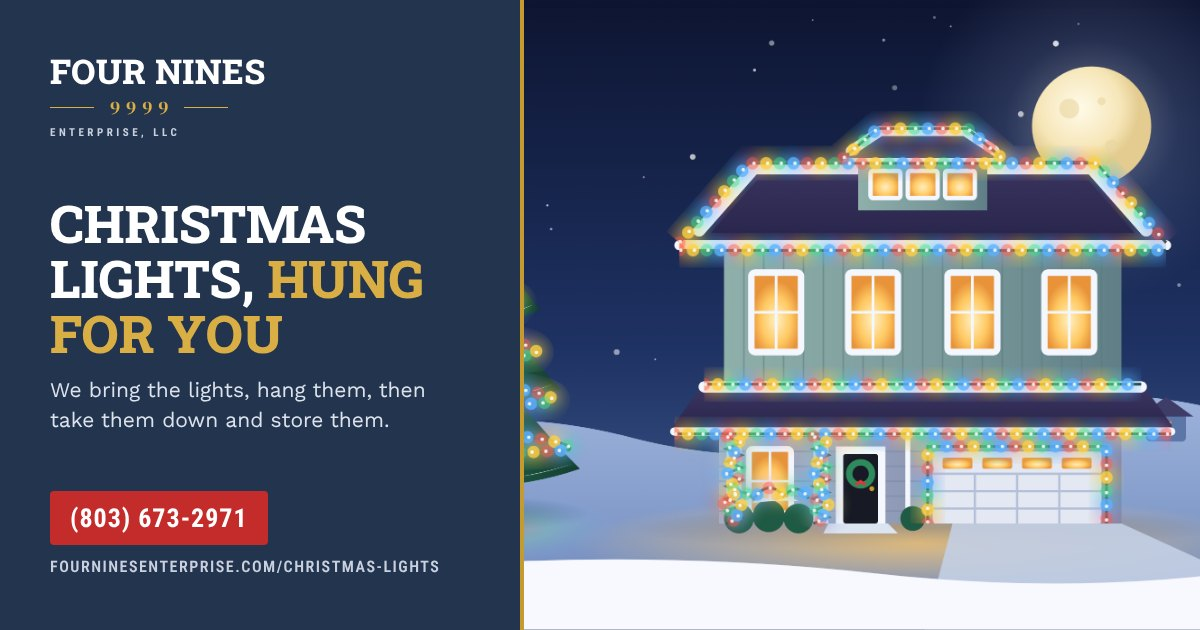
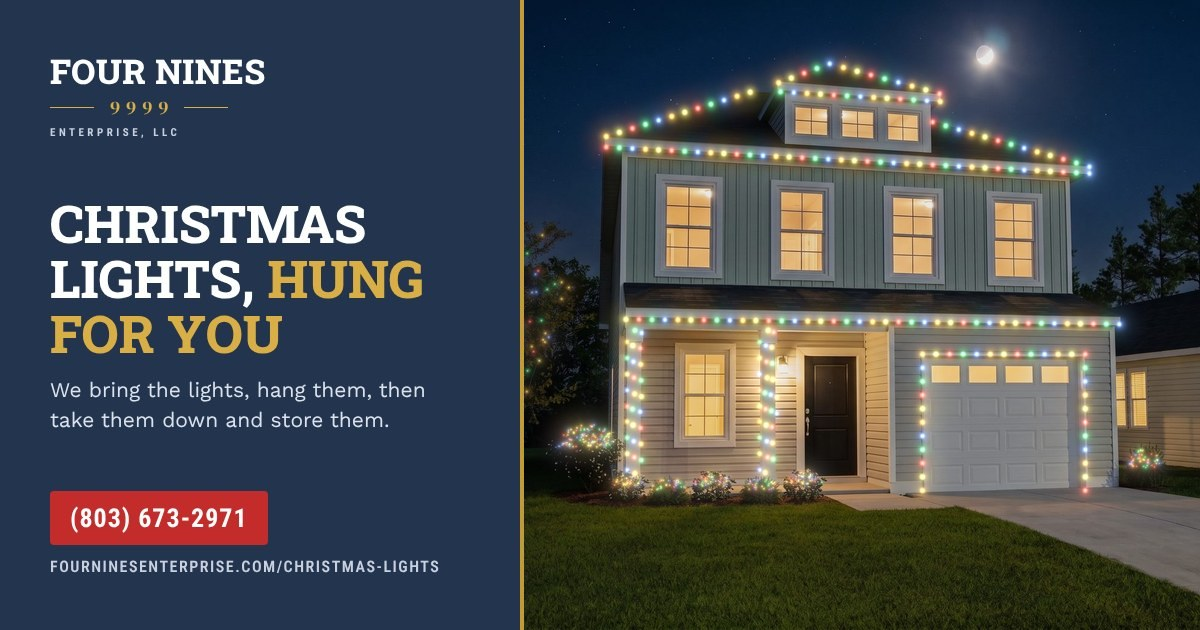
Use real house photo in Christmas lights link preview
Claude-Session: https://claude.ai/code/session_01BpZ1xWwZjBQyJcHw5PsNvj

diff --git a/christmas-lights/index.html b/christmas-lights/index.html
@@ -9,7 +9,7 @@
 <meta property="og:site_name" content="Four Nines Enterprise, LLC"><meta property="og:type" content="website"><meta property="og:url" content="https://fourninesenterprise.com/christmas-lights/">
 <meta property="og:title" content="Christmas lights, hung for you — Four Nines">
 <meta property="og:description" content="Send a photo of your house for an estimated quote.">
-<meta property="og:image" content="https://fourninesenterprise.com/img/share-christmas.jpg"><meta name="twitter:card" content="summary_large_image"><meta name="twitter:image" content="https://fourninesenterprise.com/img/share-christmas.jpg"><meta property="og:image:width" content="1200"><meta property="og:image:height" content="630"><meta property="og:image:alt" content="A house lit up with Christmas lights. Four Nines: Christmas lights, hung for you.">
+<meta property="og:image" content="https://fourninesenterprise.com/img/share-christmas.jpg?v=2"><meta name="twitter:card" content="summary_large_image"><meta name="twitter:image" content="https://fourninesenterprise.com/img/share-christmas.jpg?v=2"><meta property="og:image:width" content="1200"><meta property="og:image:height" content="630"><meta property="og:image:alt" content="A house lit up with Christmas lights. Four Nines: Christmas lights, hung for you.">
 <meta name="theme-color" content="#23344F">
 <link rel="icon" href="/favicon.svg" type="image/svg+xml">
 <link rel="alternate icon" href="/favicon.ico">
